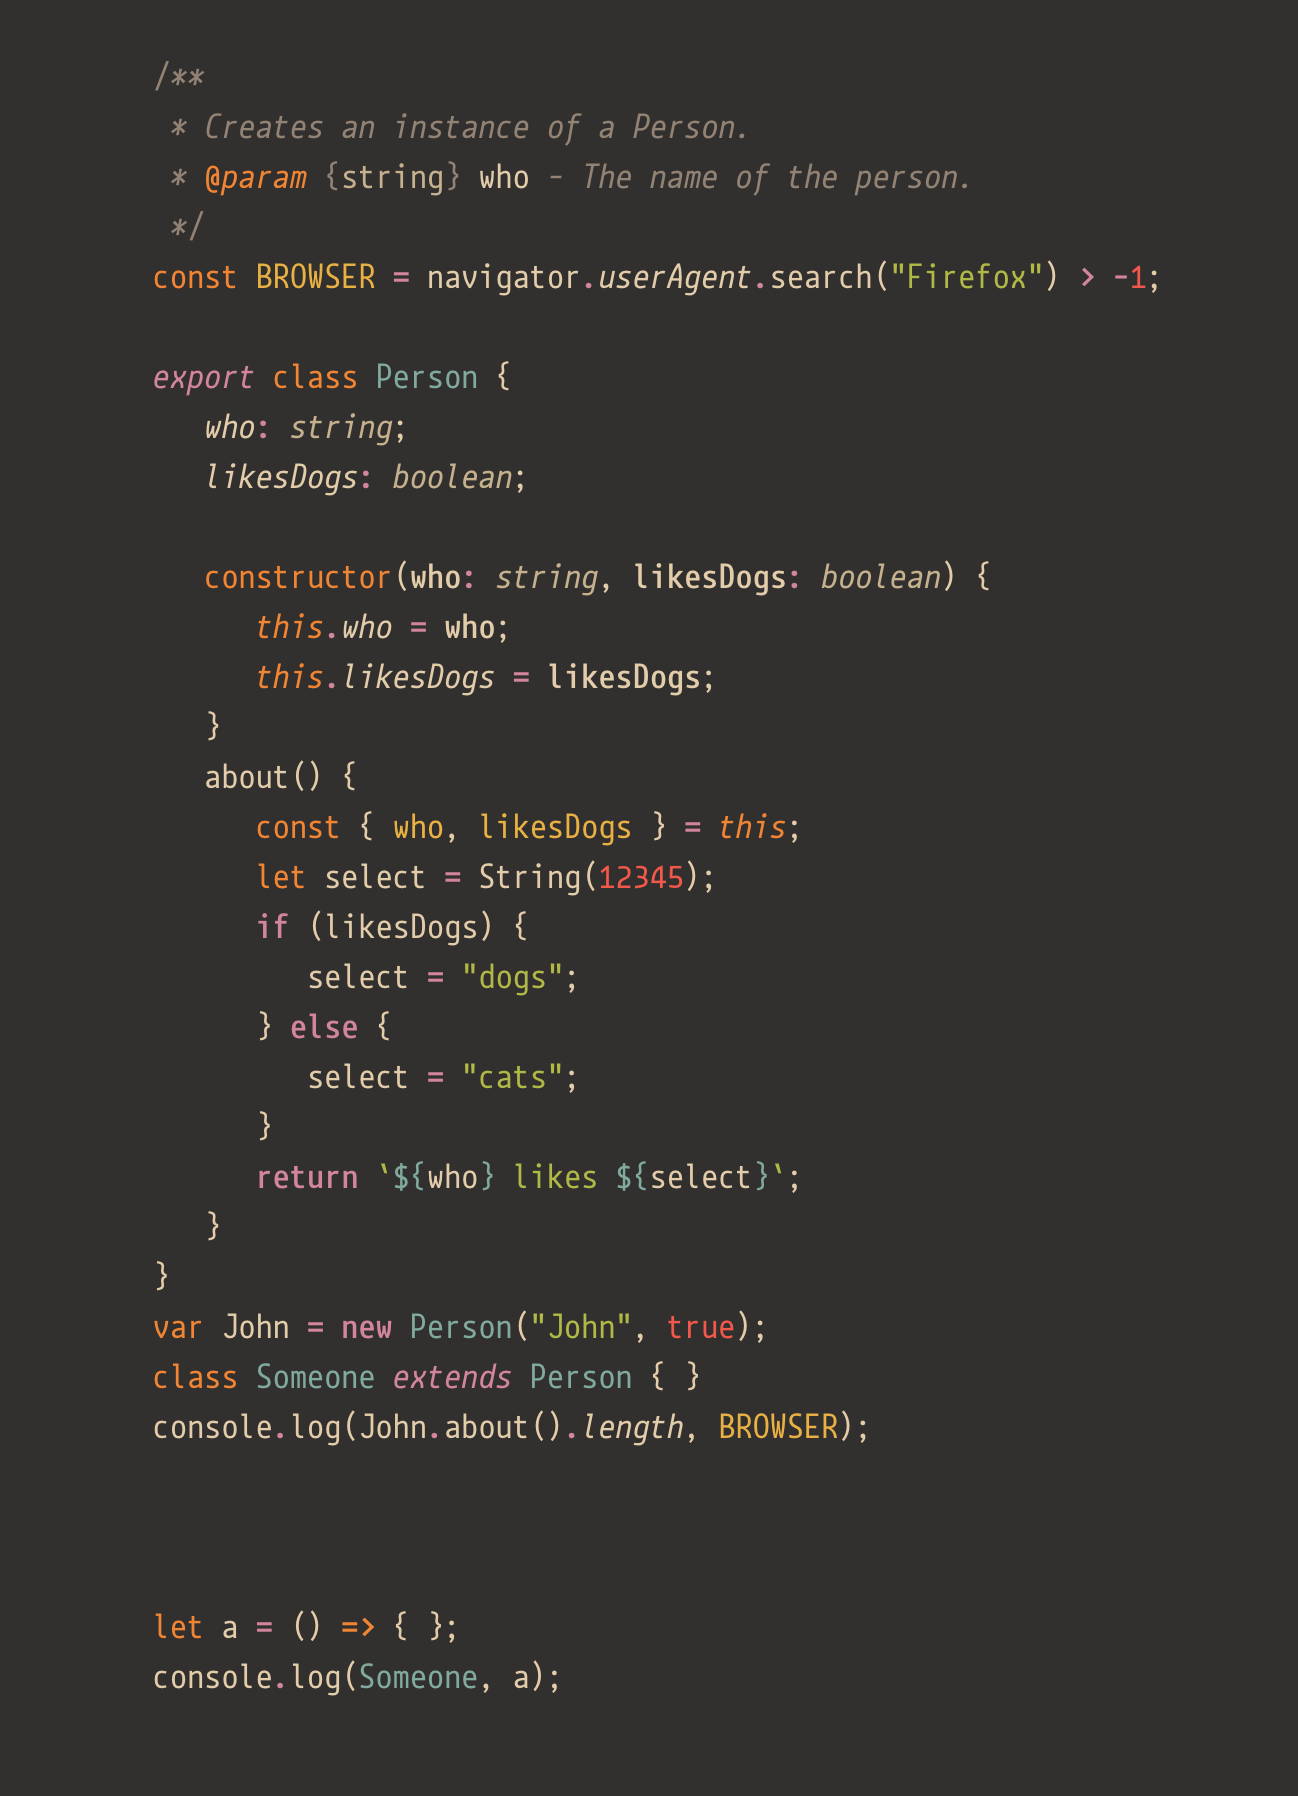
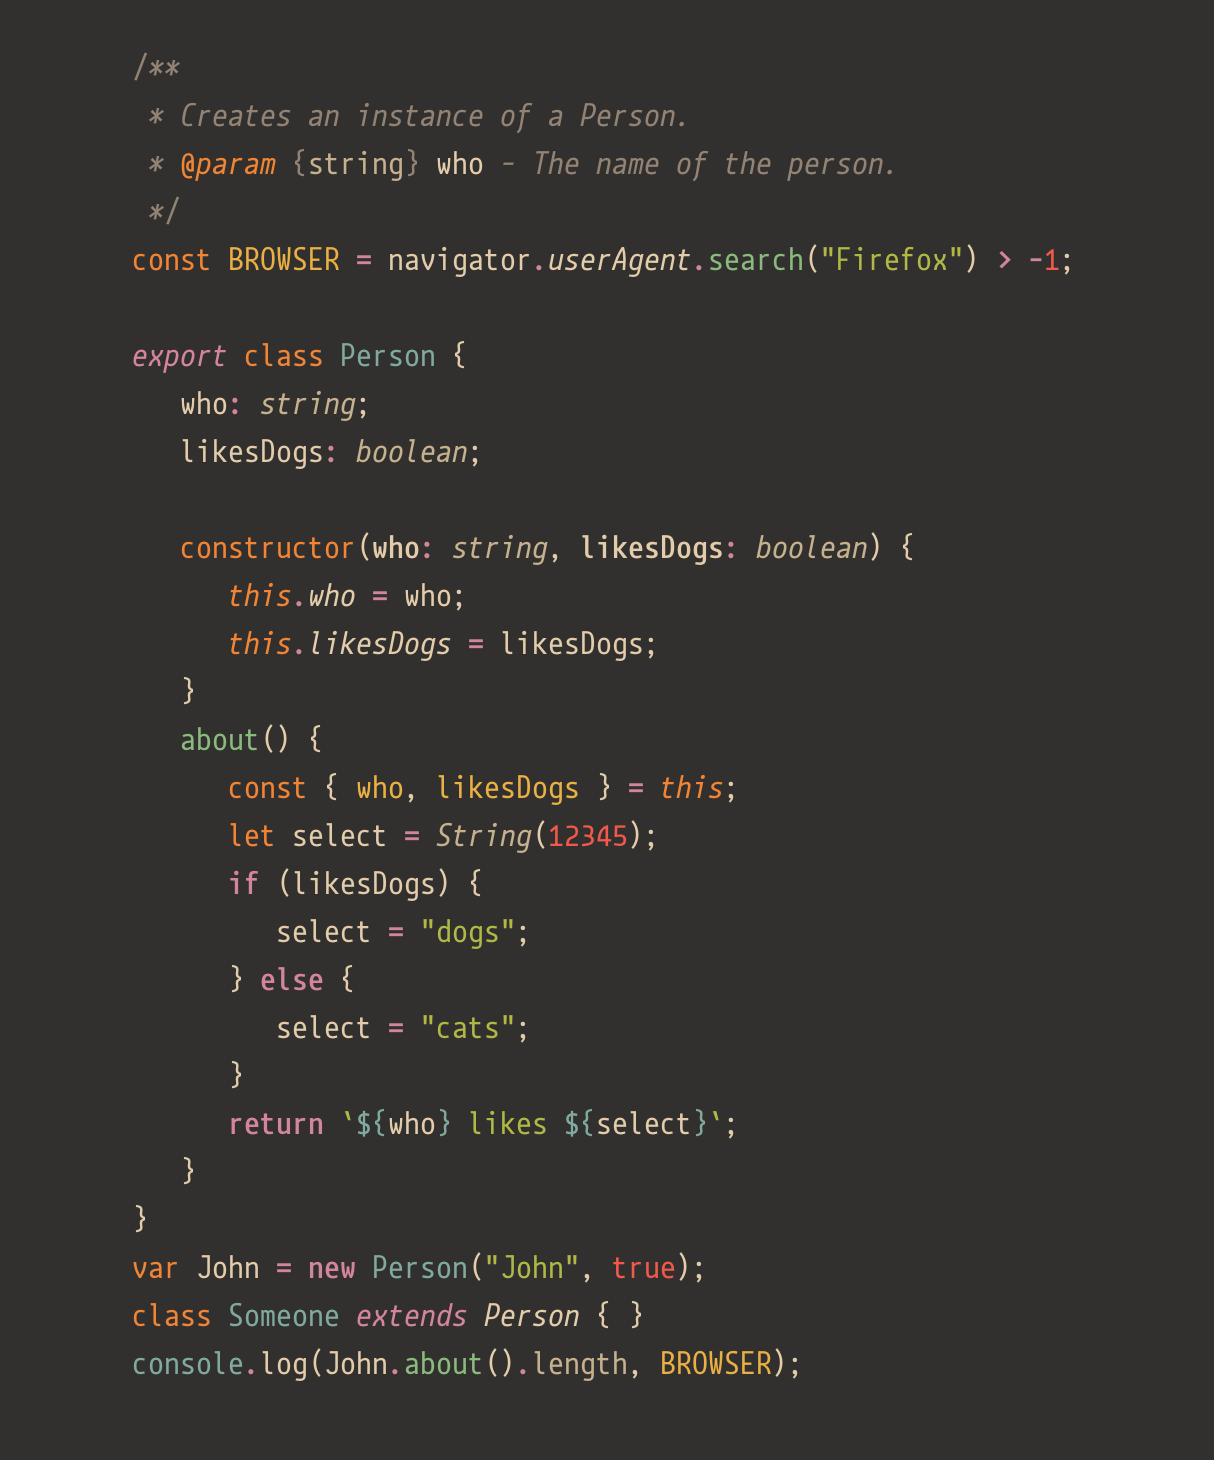
Screenshots updated. README.md updated.

diff --git a/README.md b/README.md
@@ -14,7 +14,9 @@
 
 <div align="left">
 
-All screenshots are shown using the 'mix' palette, and with both the Bold fonts option enabled and the Italic fonts option enabled. See [Configuration Settings](#config) below.
+All screenshots are shown using the 'mix' palette, and with both the Bold fonts option enabled and the Italic fonts option enabled. See [Configuration Settings](#config) below for more information.
+
+Additionally, all screenshots are show with VSCode's Semantic Highlighting feature turned off via `"editor.semanticHighlighting.enabled": false`.
 
 </div>
 
